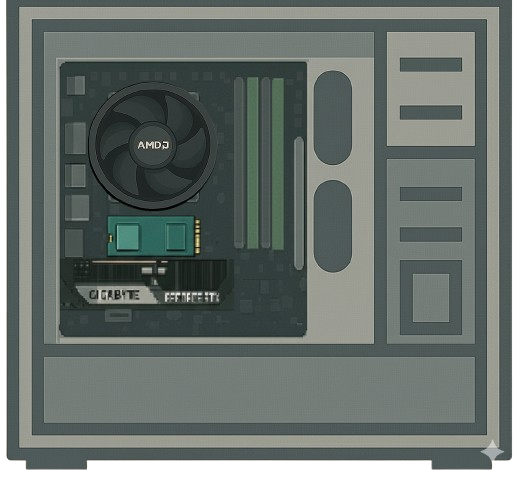
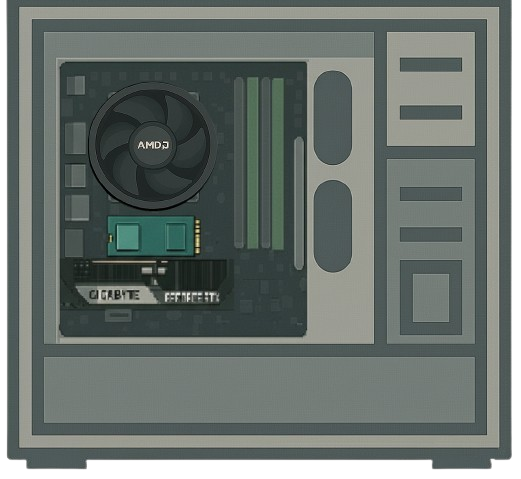
BuildPage fix and pictures

diff --git a/client/src/pages/BuildPage/BuildPage.tsx b/client/src/pages/BuildPage/BuildPage.tsx
@@ -76,7 +76,17 @@ function getBuildStageImages(build: BuildState): string[] {
   if (build.ram?.length) partsExact.push("RAM");
   if (build.storage?.length) partsExact.push("NVME");
   if (build.gpu?.length) partsExact.push("GPU");
-  if (build.cooler?.length) partsExact.push("Cooler");
+
+  // ✅ UPDATED: dynamically choose ICooler or Cooler
+  if (build.cooler?.length) {
+    const cpu = build.processor?.[0];
+    const cpuName = cpu?.name?.toLowerCase() || "";
+    const isIntel =
+      cpuName.includes("intel") ||
+      /^i[3579]-\d{3,5}/.test(cpuName); // catches "i5-12400F", "i7-12700K", etc.
+    partsExact.push(isIntel ? "ICooler" : "Cooler");
+  }
+
   if (build.psu?.length) partsExact.push("PSU");
 
   const candidates = new Set<string>();
@@ -143,6 +153,7 @@ function getBuildStageImages(build: BuildState): string[] {
   const list = Array.from(candidates);
   return list;
 }
+
 
 type CompatibilityIssue = {
   type: "error" | "warning" | "info";
@@ -723,68 +734,97 @@ export default function BuildPage() {
       drop: (item: DragItem) => onDropPart(item),
       collect: (monitor) => ({ isOver: monitor.isOver() }),
     });
-
+    
     // whenever candidates change (user adds parts), reset to the first option
-    useEffect(() => {
-      setImgSrc(candidates[0] ?? null);
-      // eslint-disable-next-line react-hooks/exhaustive-deps
-    }, [JSON.stringify(candidates)]);
-    const allComponents = Object.values(build)
-      .flat()
-      .map((c) => c.name)
-      .join(" + ");
-    drop(ref);
-    return (
-      <div
-        ref={ref}
-        className={`w-full min-h-[300px] md:h-[500px] border-dashed border-2 p-2 md:p-4 flex flex-col justify-center items-center text-center text-sm ${
-          isOver ? "border-blue-400" : "border-white"
-        }`}
-      >
-        <div className="w-full h-full rounded-xl mb-2 md:mb-4 flex items-center justify-center border border-neonblue/40 bg-black/20 overflow-hidden">
-          {imgSrc ? (
-            <img
-              key={imgSrc}
-              src={imgSrc}
-              alt="Build stage"
-              className="object-contain w-full h-full max-w-full max-h-[250px] md:max-h-[480px] transition-transform duration-300 ease-out hover:scale-105"
-              onError={(e) => (e.currentTarget.style.display = "none")}
-            />
-          ) : (
-            <div className="w-full h-full flex items-center justify-center text-white/60 text-sm">
-              [Image Placeholder]
-            </div>
-          )}
+ useEffect(() => {
+  setImgSrc(candidates[0] ?? null);
+  // eslint-disable-next-line react-hooks/exhaustive-deps
+}, [JSON.stringify(candidates)]);
+
+const allComponents = Object.values(build)
+  .flat()
+  .map((c) => c.name)
+  .join(" + ");
+drop(ref);
+
+// --- DYNAMIC MISSING PART LOGIC ---
+let missingPart: keyof BuildState | null = null;
+// Find the last (furthest) chosen part in order
+let lastChosenIndex = -1;
+for (let i = COMPONENT_ORDER.length - 1; i >= 0; i--) {
+  const part = COMPONENT_ORDER[i];
+  if (Array.isArray(build[part]) && build[part].length > 0) {
+    lastChosenIndex = i;
+    break;
+  }
+}
+// Among those up to that last, find the first missing part
+if (lastChosenIndex >= 0) {
+  for (let i = 0; i < lastChosenIndex; i++) {
+    const part = COMPONENT_ORDER[i];
+    if (!build[part] || build[part].length === 0) {
+      missingPart = part;
+      break;
+    }
+  }
+}
+// --- END MISSING PART LOGIC ---
+
+return (
+  <div
+    ref={ref}
+    className={`w-full min-h-[300px] md:h-[500px] border-dashed border-2 p-2 md:p-4 flex flex-col justify-center items-center text-center text-sm ${
+      isOver ? "border-blue-400" : "border-white"
+    }`}
+  >
+    <div className="w-full h-full rounded-xl mb-2 md:mb-4 flex items-center justify-center border border-neonblue/40 bg-black/20 overflow-hidden">
+      {missingPart ? (
+        <div className="w-full h-full flex items-center justify-center text-white/60 text-sm">
+          Insert {missingPart.charAt(0).toUpperCase() + missingPart.slice(1)} to render image
         </div>
+      ) : imgSrc ? (
+        <img
+          key={imgSrc}
+          src={imgSrc}
+          alt="Build stage"
+          className="object-contain w-full h-full max-w-full max-h-[250px] md:max-h-[480px] transition-transform duration-300 ease-out hover:scale-105"
+          onError={(e) => (e.currentTarget.style.display = "none")}
+        />
+      ) : (
+        <div className="w-full h-full flex items-center justify-center text-white/60 text-sm">
+          [Image Placeholder]
+        </div>
+      )}
+    </div>
 
-        <p className="text-green-400 mb-2">
-          {isRendering ? "Rendering..." : allComponents || "No components yet"}
-        </p>
+    <p className="text-green-400 mb-2">
+      {isRendering ? "Rendering..." : allComponents || "No components yet"}
+    </p>
 
-        {part.length > 0 ? (
-          <>
-            <span className="text-white text-sm font-bold mb-1">
-              ✅ You added: {part[0].name}
-            </span>
-            <span className="text-xs text-gray-400 italic">
-              Only one {category} can be added.
-            </span>
-          </>
-        ) : (
-          <span className="italic text-gray-400">
-            {typeof window !== "undefined" && window.innerWidth < 768
-              ? `Tap a ${category} above to add`
-              : `< Drop your ${category} here >`}
-          </span>
-        )}
+    {part.length > 0 ? (
+      <>
+        <span className="text-white text-sm font-bold mb-1">
+          ✅ You added: {part[0].name}
+        </span>
+        <span className="text-xs text-gray-400 italic">
+          Only one {category} can be added.
+        </span>
+      </>
+    ) : (
+      <span className="italic text-gray-400">
+        {typeof window !== "undefined" && window.innerWidth < 768
+          ? `Tap a ${category} above to add`
+          : `< Drop your ${category} here >`}
+      </span>
+    )}
 
-        {tooltipMap[category] && (
-          <div className="mt-2 text-xs text-yellow-400 italic">
-            💡 {tooltipMap[category]}
-          </div>
-        )}
+    {tooltipMap[category] && (
+      <div className="mt-2 text-xs text-yellow-400 italic">
+        💡 {tooltipMap[category]}
       </div>
-    );
+    )}
+  </div>
+);
   };
   // ---------------- SUMMARY PAGE ----------------
   const SummaryPage: React.FC<{
